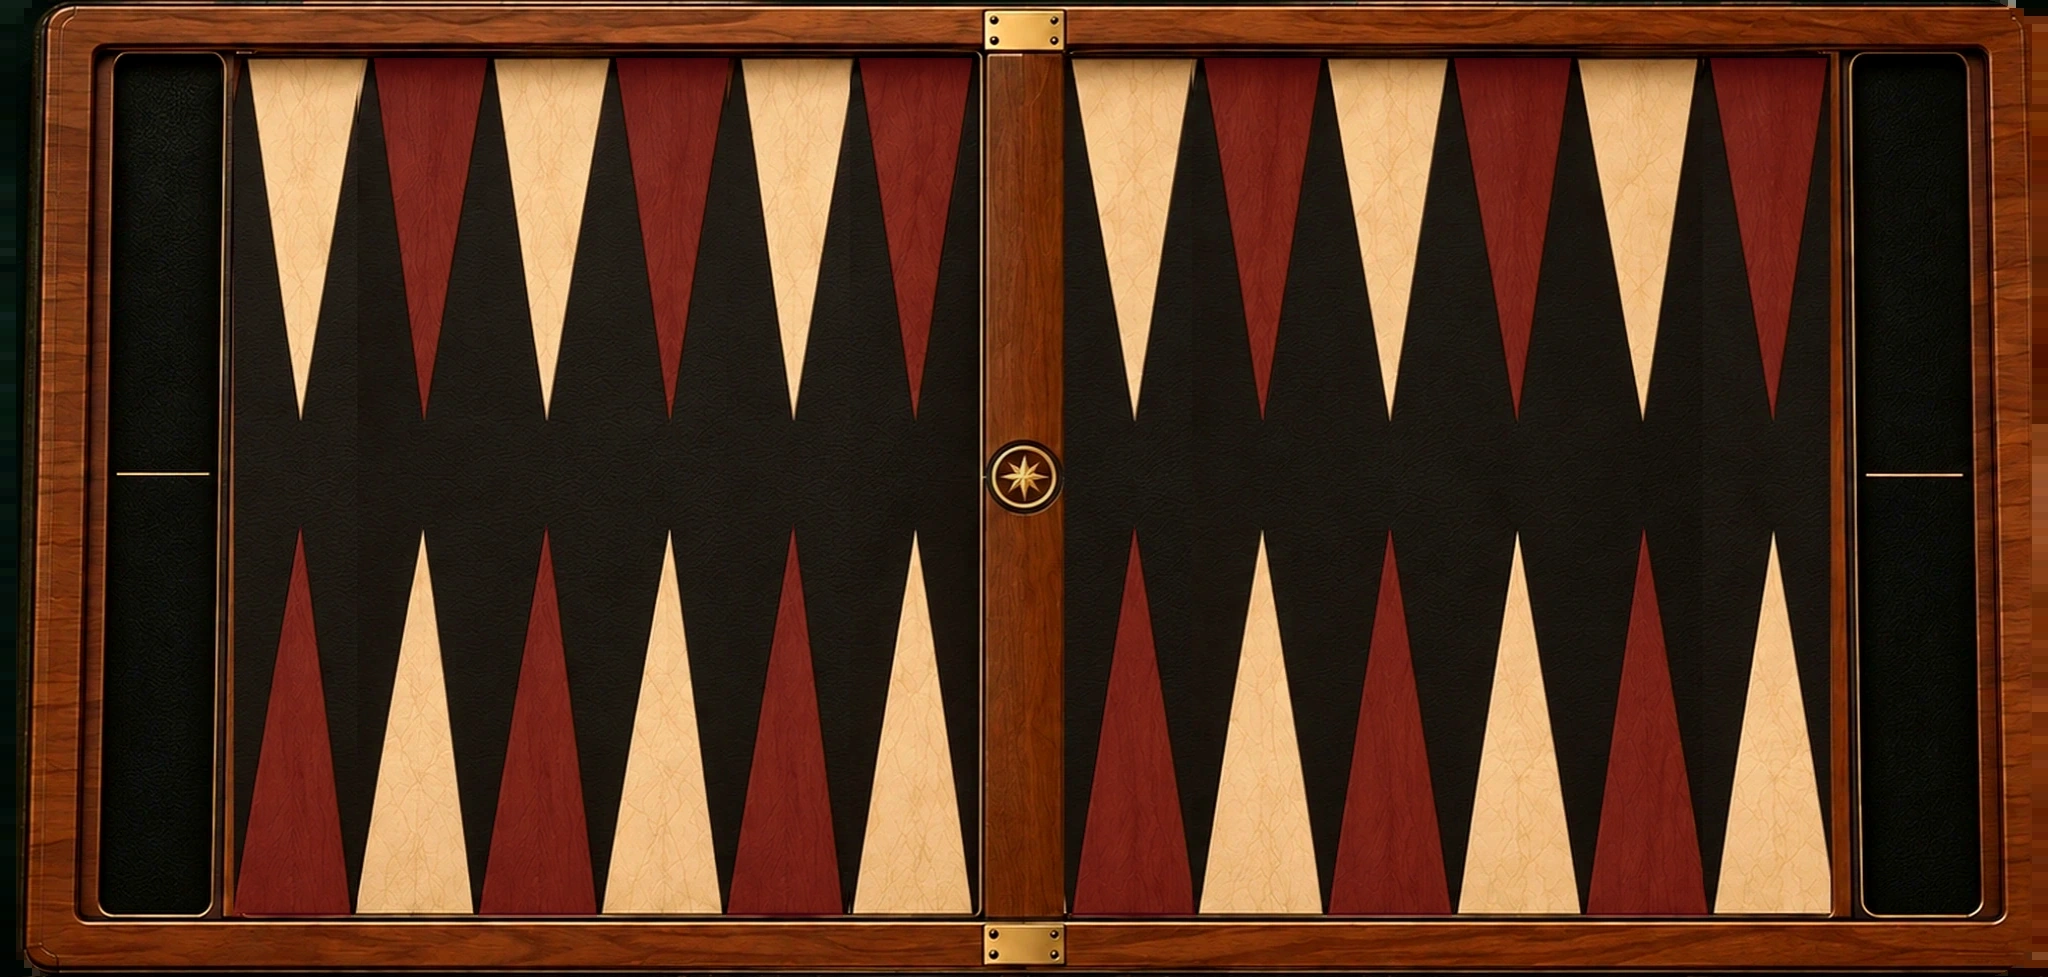
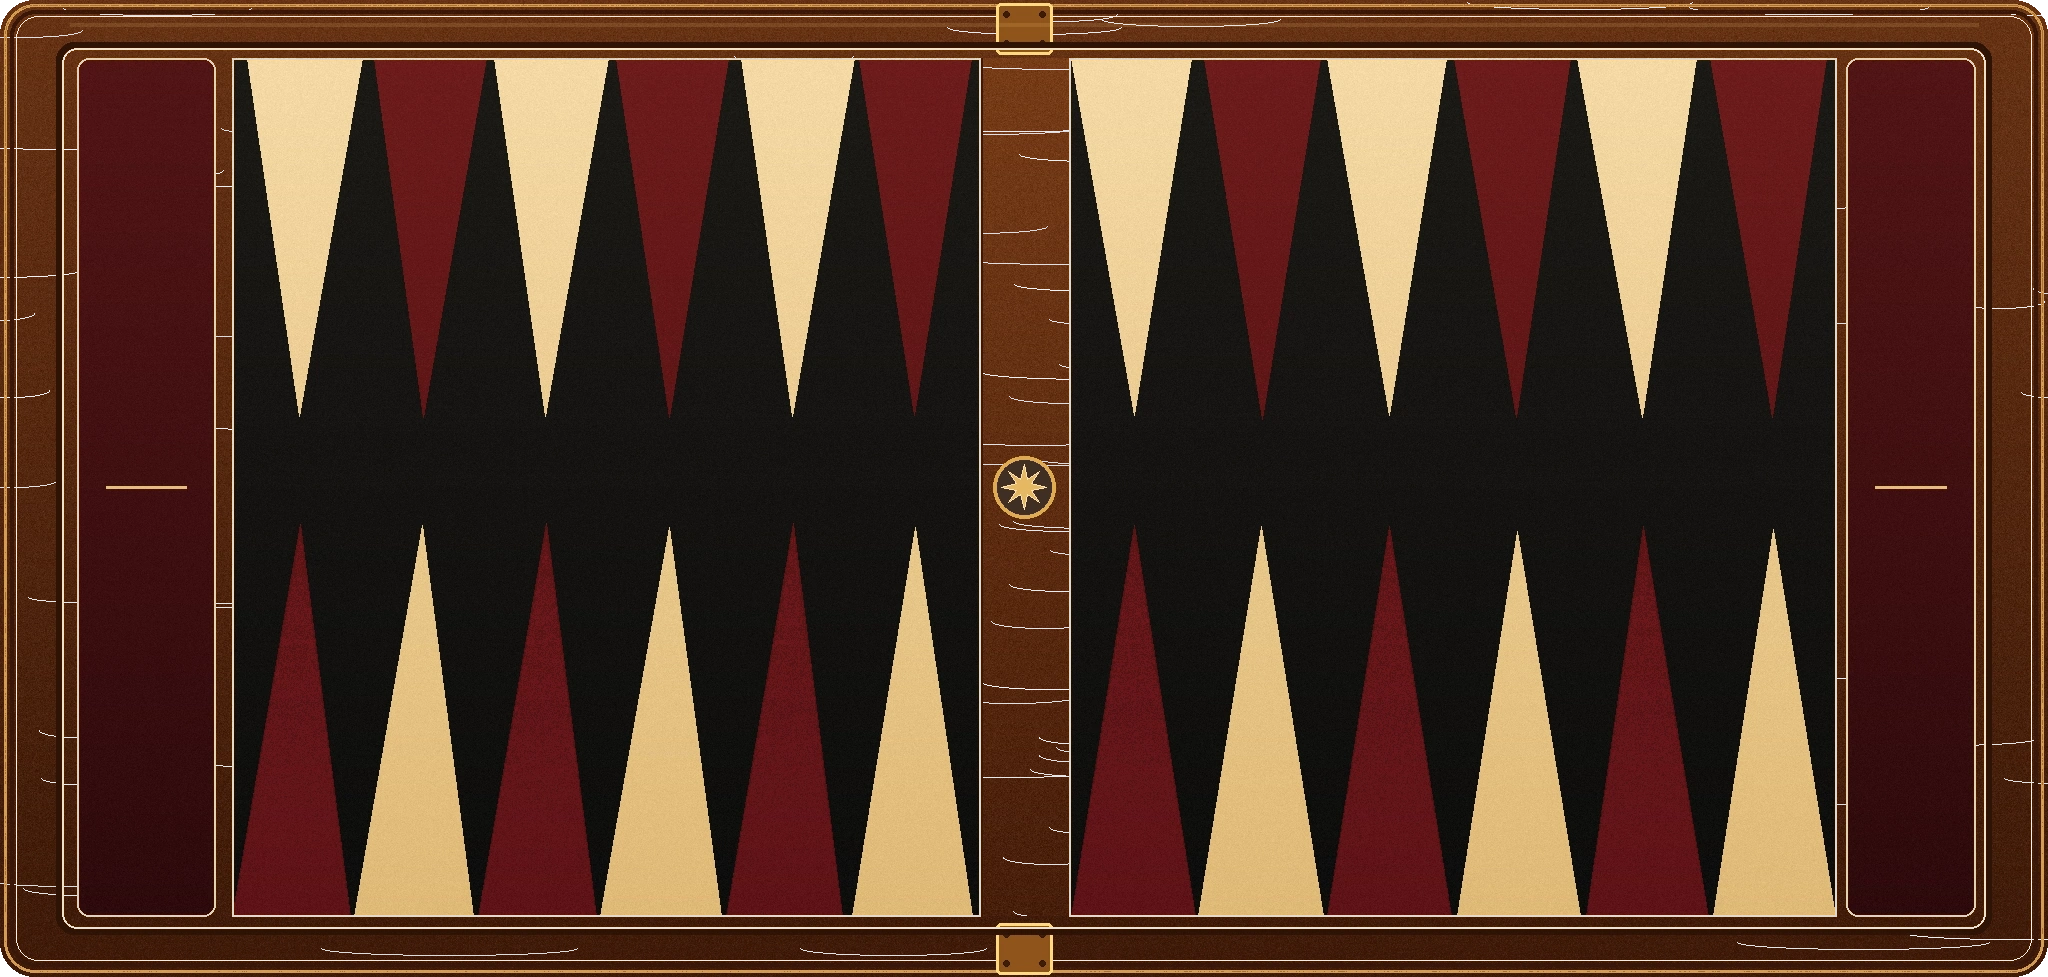
Update

diff --git a/tools/validate_project.py b/tools/validate_project.py
@@ -25,11 +25,13 @@ required_layout_tokens = [
     'setFrameRef(statusPanel, 184f, 0f, 142f, 30f, scale);',
     'setFrameRef(playerTwoPanel, 330f, 0f, 146f, 30f, scale);',
     'setFrameRef(settingsButton, 480f, 0f, 30f, 30f, scale);',
-    'setFrameRef(boardView, 0f, 32f, 510f, 207f, scale);',
-    'setFrameRef(bottomControlBar, 0f, 241f, 510f, 39f, scale);',
-    'setFrameRef(mainActionButton, 164f, 245f, 174f, 31f, scale);',
-    'setFrameRef(undoButton, 378f, 245f, 58f, 31f, scale);',
-    'setFrameRef(hintButton, 440f, 245f, 58f, 31f, scale);',
+    'setFrameRef(boardView, 2f, 31f, 506f, 213f, scale);',
+    'setFrameRef(bottomControlBar, 0f, 245f, 510f, 35f, scale);',
+    'setFrameRef(dieOneView, 33f, 250f, 24f, 24f, scale);',
+    'setFrameRef(dieTwoView, 66f, 250f, 24f, 24f, scale);',
+    'setFrameRef(mainActionButton, 164f, 248f, 174f, 29f, scale);',
+    'setFrameRef(undoButton, 378f, 248f, 58f, 29f, scale);',
+    'setFrameRef(hintButton, 440f, 248f, 58f, 29f, scale);',
 ]
 for token in required_layout_tokens:
     if token not in java:
@@ -54,8 +56,16 @@ if 'void computeStretched(float width, float height)' not in board_geometry:
     errors.append('Approved gameplay BoardMap projection is missing')
 
 board_view = (ROOT / 'app/src/main/java/com/george/backgammon/rendering/BackgammonBoardView.java').read_text()
-if 'Dice are rendered exclusively in the fixed bottom control deck in v1.12.0.' not in board_view:
+if 'Dice are rendered exclusively in the fixed bottom control deck.' not in board_view:
     errors.append('Board renderer may be drawing dice over the approved board area')
+
+
+final_reference = ROOT / 'design/reference/CLASSIC_BURGUNDY_FINAL_APPROVED.png'
+if not final_reference.exists():
+    errors.append('Final approved Classic Burgundy preview is missing')
+board_asset = ROOT / 'app/src/main/assets/cosmetics/boards/classic_burgundy/board.webp'
+if not board_asset.exists():
+    errors.append('Classic Burgundy board asset is missing')
 
 reference = ROOT / 'design/reference/CLASSIC_BURGUNDY_APPROVED.png'
 if not reference.exists():
@@ -100,6 +110,8 @@ try:
         path = asset_dir / name
         if path.exists() and Image.open(path).size != size:
             errors.append(f'{name} has wrong pixel size: {Image.open(path).size}, expected {size}')
+    if board_asset.exists() and Image.open(board_asset).size != (2048, 977):
+        errors.append(f'Classic Burgundy board has wrong size: {Image.open(board_asset).size}, expected (2048, 977)')
 except ImportError:
     pass
 
@@ -113,14 +125,14 @@ for token in ['R.drawable.premium_player_left', 'R.drawable.premium_player_right
         errors.append(f'Classic Burgundy theme is not wired to {token}')
 
 build = (ROOT / 'app/build.gradle.kts').read_text()
-if 'versionName = "1.12.0"' not in build or 'versionCode = 30' not in build:
-    errors.append('App version is not v1.12.0 / code 30')
+if 'versionName = "1.14.0"' not in build or 'versionCode = 32' not in build:
+    errors.append('App version is not v1.14.0 / code 32')
 
 workflow = (ROOT / '.github/workflows/build-apk.yml').read_text()
-if 'Backgammon-Legacy-v1.12.0.apk' not in workflow:
-    errors.append('GitHub workflow does not output Backgammon-Legacy-v1.12.0.apk')
+if 'Backgammon-Legacy-v1.14.0.apk' not in workflow:
+    errors.append('GitHub workflow does not output Backgammon-Legacy-v1.14.0.apk')
 
 if errors:
     print('\n'.join('ERROR: ' + e for e in errors))
     sys.exit(1)
-print('Project validation passed: v1.12.0 detailed premium chrome is wired while v1.11 sizing remains locked.')
+print('Project validation passed: v1.14.0 approved Classic Burgundy implementation is wired.')

diff --git a/app/src/main/java/com/george/backgammon/ui/GameActivity.java b/app/src/main/java/com/george/backgammon/ui/GameActivity.java
@@ -503,7 +503,7 @@ public class GameActivity extends Activity {
         canvasLp.gravity = 0;
         gameplayCanvas.setLayoutParams(canvasLp);
 
-        // v1.12.0: v1.11 sizing remains locked; detailed premium chrome is asset-only.
+        // v1.14.0 final Classic Burgundy composition: approved preview proportions.
         setFrameRef(menuButton, 0f, 0f, 30f, 30f, scale);
         setFrameRef(playerOnePanel, 34f, 0f, 146f, 30f, scale);
         setFrameRef(statusPanel, 184f, 0f, 142f, 30f, scale);
@@ -512,15 +512,15 @@ public class GameActivity extends Activity {
 
         // Recover vertical room for gameplay. BoardMap/checker geometry is unchanged; only the
         // projection rectangle grows vertically so the board no longer looks crushed by the HUD.
-        setFrameRef(boardView, 0f, 32f, 510f, 207f, scale);
+        setFrameRef(boardView, 2f, 31f, 506f, 213f, scale);
 
-        // v1.12.0: compact integrated control deck with richer trim; geometry remains unchanged.
-        setFrameRef(bottomControlBar, 0f, 241f, 510f, 39f, scale);
-        setFrameRef(dieOneView, 34f, 247f, 27f, 27f, scale);
-        setFrameRef(dieTwoView, 67f, 247f, 27f, 27f, scale);
-        setFrameRef(mainActionButton, 164f, 245f, 174f, 31f, scale);
-        setFrameRef(undoButton, 378f, 245f, 58f, 31f, scale);
-        setFrameRef(hintButton, 440f, 245f, 58f, 31f, scale);
+        // v1.14.0: compact integrated control deck matched to the approved preview.
+        setFrameRef(bottomControlBar, 0f, 245f, 510f, 35f, scale);
+        setFrameRef(dieOneView, 33f, 250f, 24f, 24f, scale);
+        setFrameRef(dieTwoView, 66f, 250f, 24f, 24f, scale);
+        setFrameRef(mainActionButton, 164f, 248f, 174f, 29f, scale);
+        setFrameRef(undoButton, 378f, 248f, 58f, 29f, scale);
+        setFrameRef(hintButton, 440f, 248f, 58f, 29f, scale);
 
         gameplayUiScale = scale;
         int icon = Math.max(1, Math.round(22f * scale));

diff --git a/app/src/main/java/com/george/backgammon/rendering/BackgammonBoardView.java b/app/src/main/java/com/george/backgammon/rendering/BackgammonBoardView.java
@@ -239,7 +239,7 @@ public class BackgammonBoardView extends View {
         else staticRenderer.draw(c, geometry, loadout.board);
 
         drawOffCounts(c);
-        // Dice are rendered exclusively in the fixed bottom control deck in v1.12.0.
+        // Dice are rendered exclusively in the fixed bottom control deck.
         drawMoveHints(c);
         for (int p = 1; p <= 24; p++) drawCheckersAtPoint(c, p, adjustedPointValue(p));
         drawBarCheckers(c);

diff --git a/APPROVED_GAMEPLAY_LAYOUT.md b/APPROVED_GAMEPLAY_LAYOUT.md
@@ -1,53 +1,31 @@
-# Approved gameplay layout — v1.11.0+
+# Approved gameplay layout — v1.14.0
 
-The v1.11.0 runtime composition responds to the approved Classic Burgundy direction plus the in-game review that the v1.10 top and bottom chrome were too tall and visually compressed the board.
-
-Visual references:
-- `design/reference/CLASSIC_BURGUNDY_APPROVED.png` — material/style direction.
-- `design/reference/V1_11_RUNTIME_COMPOSITION.png` — current runtime proportions.
-
-Future themes may reskin this composition but must not move gameplay elements without a deliberate layout revision.
+The exact visual direction is `design/reference/CLASSIC_BURGUNDY_FINAL_APPROVED.png`.
+This is now the implementation target, not an inspiration image.
 
 ## Reference frame
-
-The match screen uses one **510 × 280** logical frame, uniformly scaled and centred inside the safe landscape window.
+The match screen uses one 510 × 280 logical frame, uniformly scaled and centred in the safe landscape window.
 
 ### Locked rectangles (x, y, width, height)
-
 - Menu: `0, 0, 30, 30`
 - Player 1: `34, 0, 146, 30`
-- Turn/status plaque: `184, 0, 142, 30`
+- Turn/status: `184, 0, 142, 30`
 - Player 2 / AI: `330, 0, 146, 30`
 - Settings: `480, 0, 30, 30`
-- Live board: `0, 32, 510, 207`
-- Bottom control deck: `0, 241, 510, 39`
-- Die 1: `34, 247, 27, 27`
-- Die 2: `67, 247, 27, 27`
-- Roll / End Turn: `164, 245, 174, 31`
-- Undo: `378, 245, 58, 31`
-- Hint: `440, 245, 58, 31`
+- Live board: `2, 31, 506, 213`
+- Bottom control deck: `0, 245, 510, 35`
+- Die 1: `33, 250, 24, 24`
+- Die 2: `66, 250, 24, 24`
+- Roll / End Turn: `164, 248, 174, 29`
+- Undo: `378, 248, 58, 29`
+- Hint: `440, 248, 58, 29`
 
-The live board therefore occupies about **74% of the composition height**, up from about 64% in v1.10.0. The top chrome is reduced from 42 to 30 logical units and the bottom deck from 56 to 39.
-
-## Visual rules
-
-- Classic Burgundy remains the baseline: warm walnut case, black leather field, ivory/burgundy points, burgundy leather chrome and restrained antique-gold trim.
-- Chrome is **slim and architectural**, not a large banner. The board is the visual focus.
-- Player plaques have a recessed dark score bay and a restrained double gold edge.
-- The centre turn plaque is a compact faceted gold plaque.
-- Menu and Settings use the same 30-unit control height as the top HUD.
-- Bottom controls form one integrated 39-unit deck. Dice remain left, Roll/End Turn remains centred, Undo/Hint remain right.
-- Undo and Hint are compact single-line controls. Hint Off reserves the same rectangle so nothing shifts.
-- Buttons retain Normal / Pressed / Disabled artwork. Pressed state visually sinks by collapsing the highlight/shadow and darkening the face. No glow.
-- Decorative gold is limited and thin. Avoid oversized outlines, neon effects or full-board ornamental framing.
-- The right bear-off tray remains the edge-on two-direction progress stack.
-
-## Board projection
-
-The canonical board art and BoardMap remain **2048 × 977**. The live screen projects that BoardMap into the v1.11 rectangle above. The BoardMap source coordinates, touch regions, checker anchors, bar/tray anchors and animation endpoints are unchanged.
-
-Checker sprites remain circular and keep the locked 90%-of-point-base sizing rule. This release changes presentation space only; it does not change game/rules geometry.
-
-
-## v1.12 detail-pass note
-The v1.11 rectangles above remain unchanged. `design/reference/V1_12_SIZE_REFERENCE.jpg` confirms the accepted in-game sizing. v1.12 adds detail only: richer leather grain, double metal edging, score-bay depth, recessed dice wells, fine separators/rivets and more dimensional button states.
+## Locked visual rules
+- Board frame is straight-on and symmetrical: no perspective/skew in the wood rails.
+- Board has rounded transparent corners and is grounded into the emerald tabletop by the renderer shadow.
+- Player score bays are sized to the live score fields and stay inside each player plaque.
+- Top UI is burgundy leather with restrained double antique-gold edging.
+- The turn plaque is faceted brushed gold.
+- Bottom controls are one integrated burgundy deck with recessed dice wells, a burgundy main action button and dark secondary buttons.
+- Buttons retain Normal / Pressed / Disabled states and never glow.
+- BoardMap, checker anchors, hit regions and rules geometry are unchanged.

diff --git a/PATCH_NOTES_v1.14.0.md b/PATCH_NOTES_v1.14.0.md
@@ -1,0 +1,13 @@
+# Backgammon Legacy v1.14.0 — Classic Burgundy Final Implementation
+
+This pass implements the approved Classic Burgundy preview as the real gameplay visual target rather than only storing it as a reference.
+
+- Rebuilt the Classic Burgundy board artwork from the locked BoardMap geometry with a straight, symmetrical walnut frame.
+- Removed the perspective/skewed right-hand frame and hard cut-out appearance of the old board artwork.
+- Added rounded transparent board corners so the existing tabletop shadow visually integrates the physical board into the background.
+- Rebuilt the player plaques with score bays sized to the live score TextViews.
+- Rebuilt the gold turn plaque, burgundy bottom deck, recessed dice wells, primary action button, secondary buttons and square controls.
+- Normal / Pressed / Disabled button states remain separate.
+- Adjusted only the final gameplay projection to 506 x 213 logical units to better match the approved board proportions while preserving the permanent BoardMap.
+- Backgammon, Mahbouseh, Tawla 31, AI, hints, XP and Gold are unchanged.
+- GitHub output: `Backgammon-Legacy-v1.14.0.apk`.

diff --git a/PROJECT_MAP.md b/PROJECT_MAP.md
@@ -20,7 +20,9 @@ Use this map before editing so future updates stay targeted.
 For visual-only gameplay updates, normally edit only `cosmetics/`, `ui/GameActivity`, relevant `res/drawable*` assets, and the selected board asset. Do not touch `game/`, `progression/`, AI or BoardMap unless the requested feature actually changes them.
 
 
-CLASSIC BURGUNDY PREVIEW LOCK
-- approved static preview source: /mnt/data/luxurious_backgammon_board_interface.png
-- HUD chrome assets: app/src/main/res/drawable-nodpi/premium_*
-- board skin: app/src/main/assets/cosmetics/boards/classic_burgundy/board.webp
+## v1.14 Classic Burgundy final implementation
+- Approved visual: `design/reference/CLASSIC_BURGUNDY_FINAL_APPROVED.png`
+- Gameplay chrome assets: `app/src/main/res/drawable-nodpi/premium_*`
+- Classic board art: `app/src/main/assets/cosmetics/boards/classic_burgundy/board.webp`
+- Runtime placement: `ui/GameActivity.applyReferenceComposition()`
+- Board logic remains in `rendering/BoardMap.java` and `BoardGeometry.java`.

diff --git a/DESIGN_STANDARDS.md b/DESIGN_STANDARDS.md
@@ -79,7 +79,9 @@ The approved premium gameplay reference is the production target for Classic Wal
 - polished ivory/walnut checkers
 - brass/gold trim
 - dark emerald luxury tabletop
-- dark brown player panels and emerald/gold status/action controls
+- burgundy leather player panels and bottom controls with restrained antique-gold edging
+- faceted brushed-gold turn/status plaque
+- dark secondary Undo/Hint buttons with gold trim
 - compact UI so the board remains the focus
 
 ## 8. New board workflow
